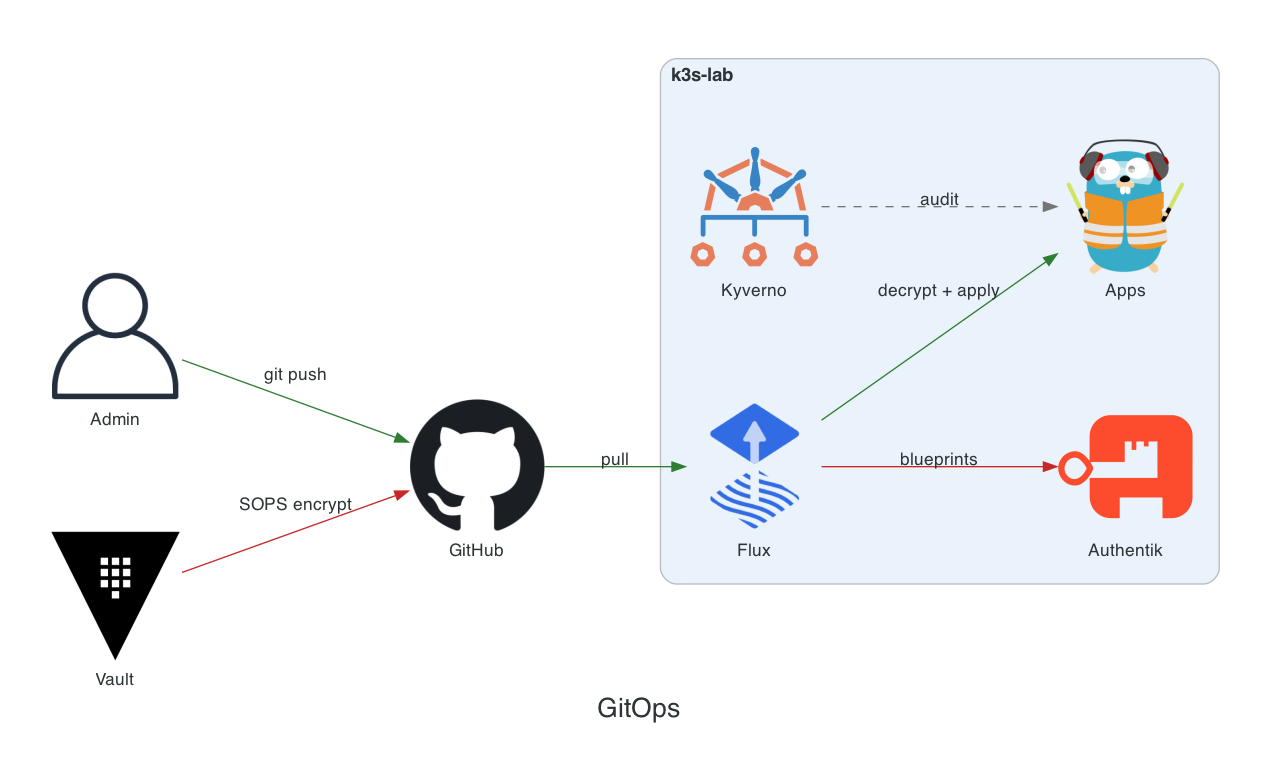
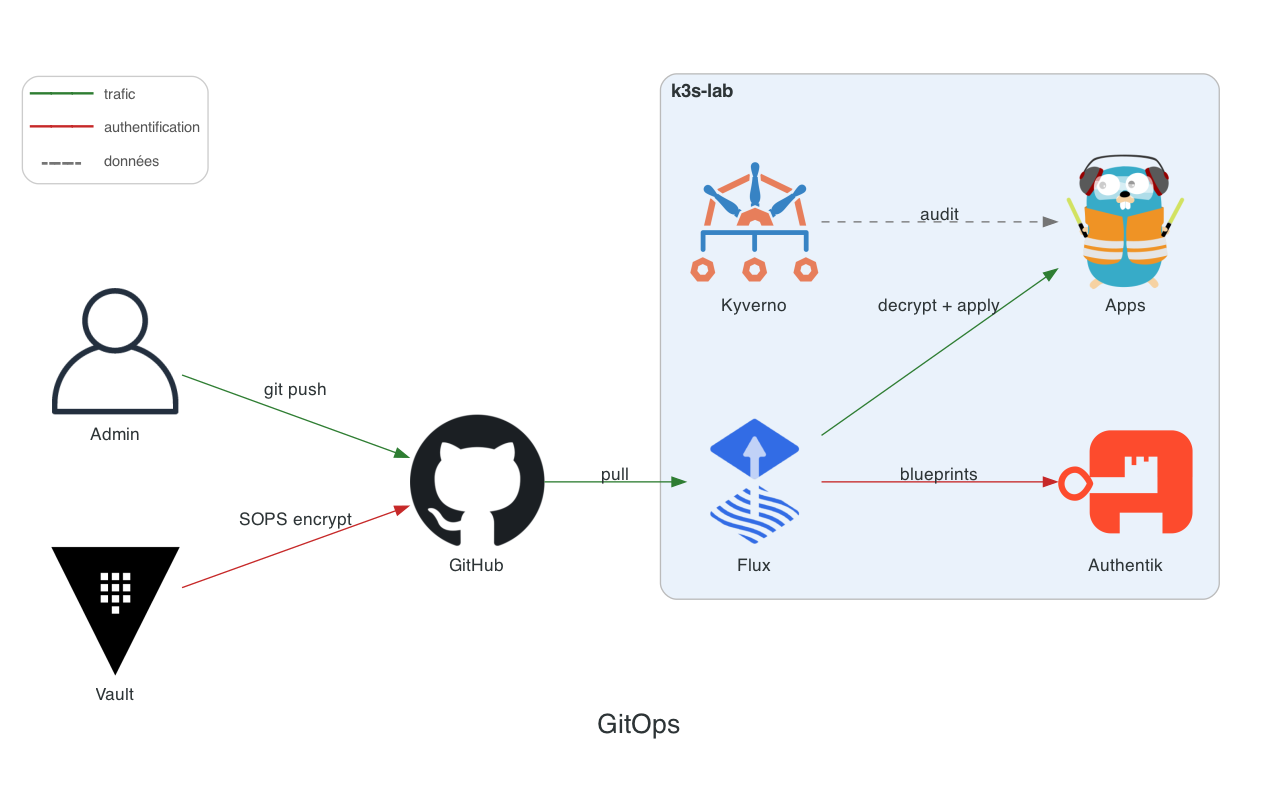
docs: architecture diagrams with legend in README, cluster now 3 nodes, SSO access

diff --git a/docs/diagrams/lab_diagram.py b/docs/diagrams/lab_diagram.py
@@ -46,6 +46,17 @@ AUTH = dict(color="#C62828")
 DATA = dict(color="#757575", style="dashed")
 
 
+def legend():
+    """Légende compacte (table HTML Graphviz) : 3 traits, 1 mot chacun."""
+    from diagrams import getdiagram
+    row = lambda c, st, t: (f'<tr><td><font color="{c}" point-size="16">{st}</font></td>'
+                            f'<td align="left"><font point-size="11" color="#555555">{t}</font></td></tr>')
+    html = ('<<table border="1" color="#CCCCCC" cellborder="0" cellspacing="2" cellpadding="3" style="rounded">'
+            + row("#2E7D32", "━━━", "trafic") + row("#C62828", "━━━", "authentification")
+            + row("#757575", "╍╍╍", "données") + '</table>>')
+    getdiagram().dot.node("legend", label=html, shape="plaintext")
+
+
 def kubectl(ctx, *args):
     return json.loads(subprocess.run(["kubectl", "--context", ctx, *args, "-o", "json"],
                                      check=True, capture_output=True, text=True).stdout)["items"]
@@ -79,6 +90,7 @@ def overview(nodes, where, out):
             he, gf, gt = mk("hermes"), mk("grafana"), mk("gitea")
         with Cluster("Observabilité", graph_attr=CLUSTER("#EEF7EE")):
             pr, am = mk("prometheus"), mk("alertmanager")
+        legend()
 
         user >> Edge(label="HTTPS", **HTTP) >> ts >> Edge(label="WireGuard", **HTTP) >> tr
         tr >> Edge(label="forward-auth", constraint="false", **AUTH) >> ak
@@ -100,6 +112,7 @@ def gitops(out):
             ky = Custom("Kyverno", ICON("kyverno"))
             ak = Custom("Authentik", ICON("authentik"))
             apps = Traefik("Apps")
+        legend()
         dev >> Edge(label="git push", **HTTP) >> gh
         vault >> Edge(label="SOPS encrypt", **AUTH) >> gh
         gh >> Edge(label="pull", **HTTP) >> fx

diff --git a/README.md b/README.md
@@ -14,9 +14,19 @@ Plutôt que de lancer mes agents à la main, je les fais vivre 24/7 sur un clust
 
 ## Le cluster
 
-- **node1**, k3s server / control-plane (Tailscale `100.x.y.1`)
-- **node2**, k3s agent (Tailscale `100.x.y.2`)
-- 2 mini-PC Celeron G3900T, 2 vCPU et 4 Go chacun. Réseau cluster sur Tailscale.
+- **node1**, k3s server / control-plane, 2 vCPU et 4 Go
+- **cloud4dev**, k3s agent, 2 vCPU et 4 Go
+- **node3**, k3s agent, 8 vCPU, 11 Go et NVMe. C'est lui qui porte la plupart des applis.
+
+Les trois machines se parlent par Tailscale, flannel passe sur `tailscale0`.
+
+## Architecture
+
+![Vue d'ensemble](docs/diagrams/k3s-lab-overview.png)
+
+![GitOps et secrets](docs/diagrams/k3s-lab-gitops.png)
+
+Les deux schémas sortent de `docs/diagrams/lab_diagram.py`, qui lit l'état du cluster avec `kubectl`. Je le relance quand quelque chose bouge, comme ça ils restent justes.
 
 ## Ce qui tourne dessus
 
@@ -49,12 +59,9 @@ kubectl create secret generic hermes-secrets  -n hermes  \
 
 ## Accéder aux interfaces
 
-Tout passe par `kubectl port-forward`, l'ingress est en deny-all via NetworkPolicy.
+Chaque UI a son nom en `*.k3s-lab.local` derrière Traefik, avec un certificat de la CA interne. Tout le monde passe par Authentik, MFA obligatoire (YubiKey chez moi). Grafana et Gitea font de l'OIDC natif. Hermes, Prometheus et Alertmanager passent par le forward-auth de Traefik, réservé au groupe `lab-admins`.
 
-```bash
-kubectl -n t3mp3st port-forward svc/t3mp3st    3333:3333   # http://127.0.0.1:3333/ui/
-kubectl -n hermes  port-forward deploy/hermes  9119:9119   # http://127.0.0.1:9119
-```
+Les accès machine (A2A, backups, API k8s, scrapes) restent hors SSO et utilisent des tokens.
 
 ## Mettre en route depuis zéro
 
